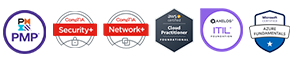
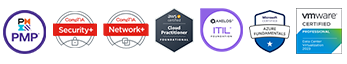
vcp

diff --git a/exampleSite/content/blog/certifications/index.md b/exampleSite/content/blog/certifications/index.md
@@ -24,6 +24,23 @@ The PMP exam is without a doubt one of the hardest tests I have ever taken. This
 #### Applicability
 Everything that I have learned in this journey is critial in my career as I plan to pursue an IT Project Management career beyond the military. 
 
+### VMware Certified Professional- Data Center (2V0-21.20)
+![](/blog/certifications/IMG-6118.PNG)
+#### Preparation
+- Courses and Labs
+  - [VMware vSphere: Install, Configure, Manage [V7] On-Demand](https://store-us.vmware.com/vmware-vsphere-install-configure-manage-v7-on-demand-5425102900.html)
+  - [VMware vSphere: Optimize and Scale [V7] – On Demand](https://mylearn.vmware.com/gw/mylearn/course/course-details/93968)
+#### Book
+- [VCP-DCV for vSphere 7.x (Exam 2V0-21.20) Official Cert Guide (VMware Press Certification)](https://www.oreilly.com/library/view/vcp-dcv-for-vsphere/9780135936610/)
+#### What did I learn during this journey 
+During this journey I learned how powerful vSphere ESXi and vCenter are to get the most out of a Data Center. vMotion, Fault Tolerance, High Availability, Distributed Resource Scheduler, Replication and many other features are a clear advantage over traditional On Premises set ups.
+
+#### Exam
+I registered and took the exam on [Person Vue online](https://www.pearsonvue.com/) testing from home. The exam had 70 questions with a passing score of 300 and a time limit of 130 minutes. 
+
+#### Applicability
+This course and certification are absolutely critical in my journey to learn more about virtualization and learn the versatility of levering cloud services that can reach world wide deployments within minutes. Defenitely a great starting point to learn more about [VMware Cloud on AWS](https://www.vmware.com/products/vmc-on-aws.html).
+
 ### Security Plus
 ![](/blog/certifications/sec.png) [](https://www.comptia.org/certifications/security)
 #### Preparation

diff --git a/exampleSite/content/blog/images.md b/exampleSite/content/blog/images.md
@@ -33,6 +33,7 @@ IT Project Manager and US Army Veteran with 22+ years of experience in network e
 - [AWS Cloud Practitioner](/blog/certifications/#aws-cloud-practitioner)
 - [ITIL Foundation](/blog/certifications/#itil-v4)
 - [AZ-900 Azure Fundamentals](/blog/certifications/#azure-fundamentals-az-900)
+- [VMware Certified Professional-Data Center Virtualization 2023](https://www.vmware.com/learning/certification/vcp-dcv.html)
 - Lean Six Sigma Green Belt (LSSGB)
 
 ---
